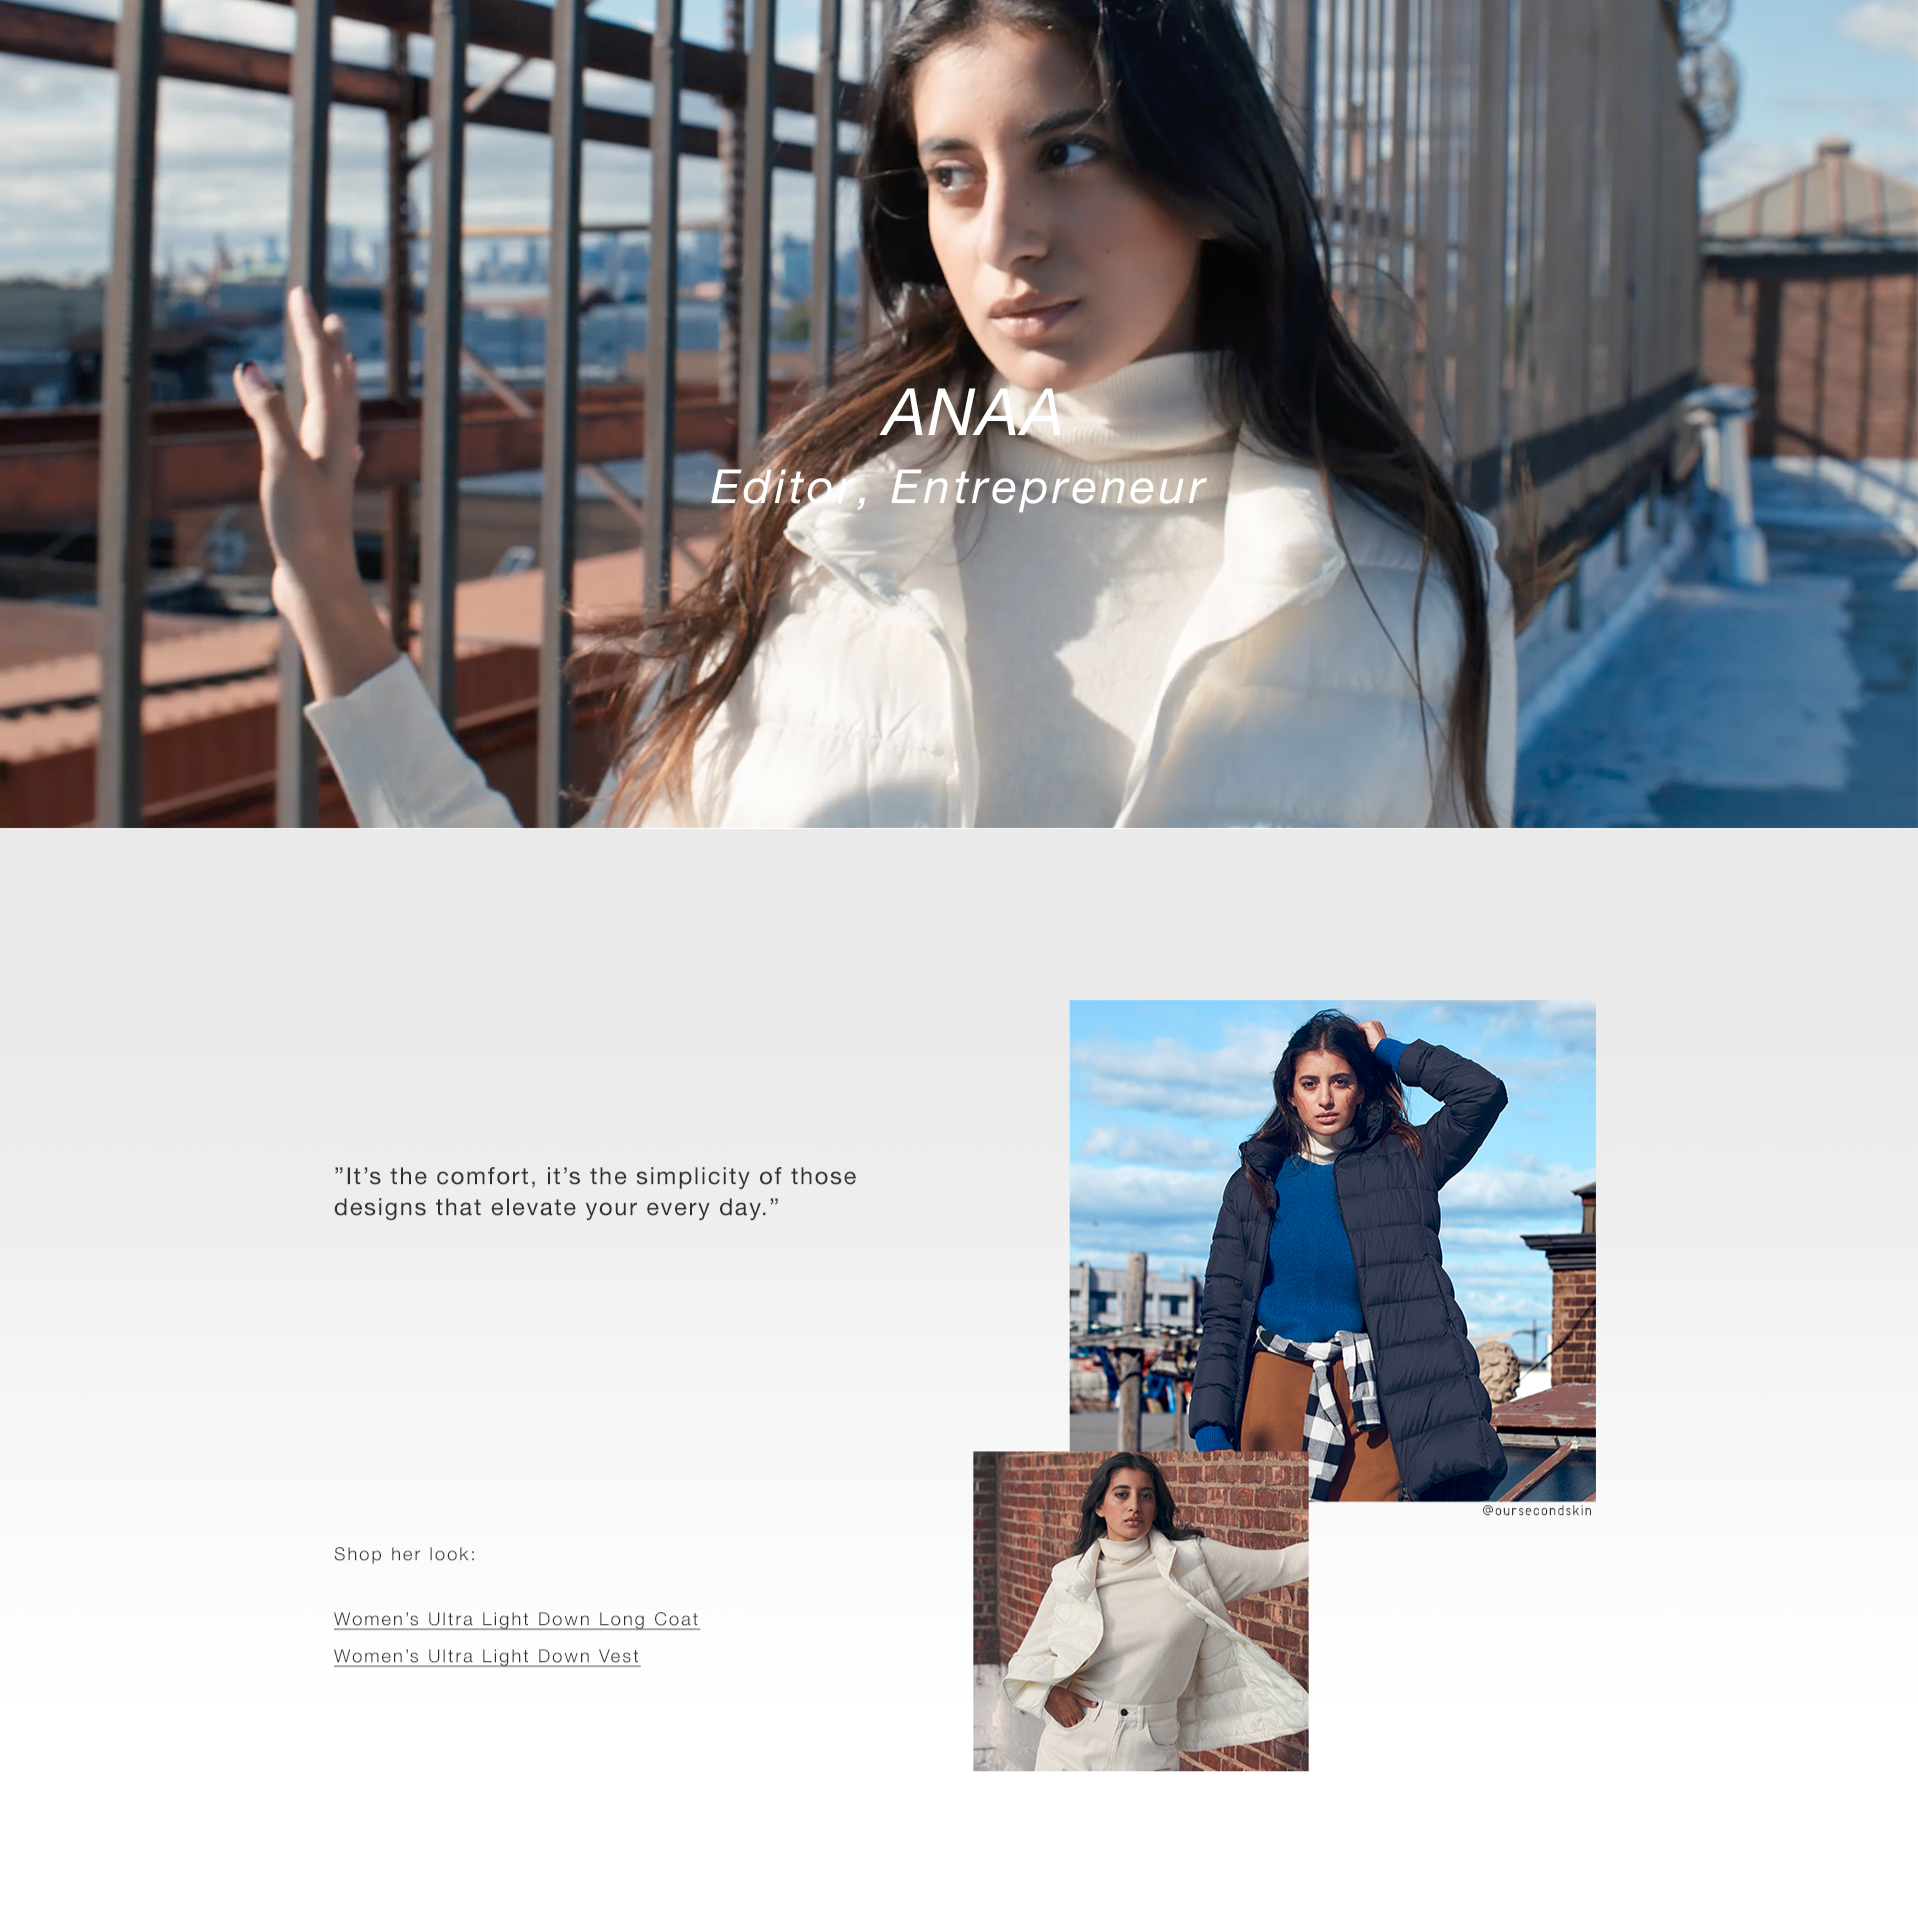
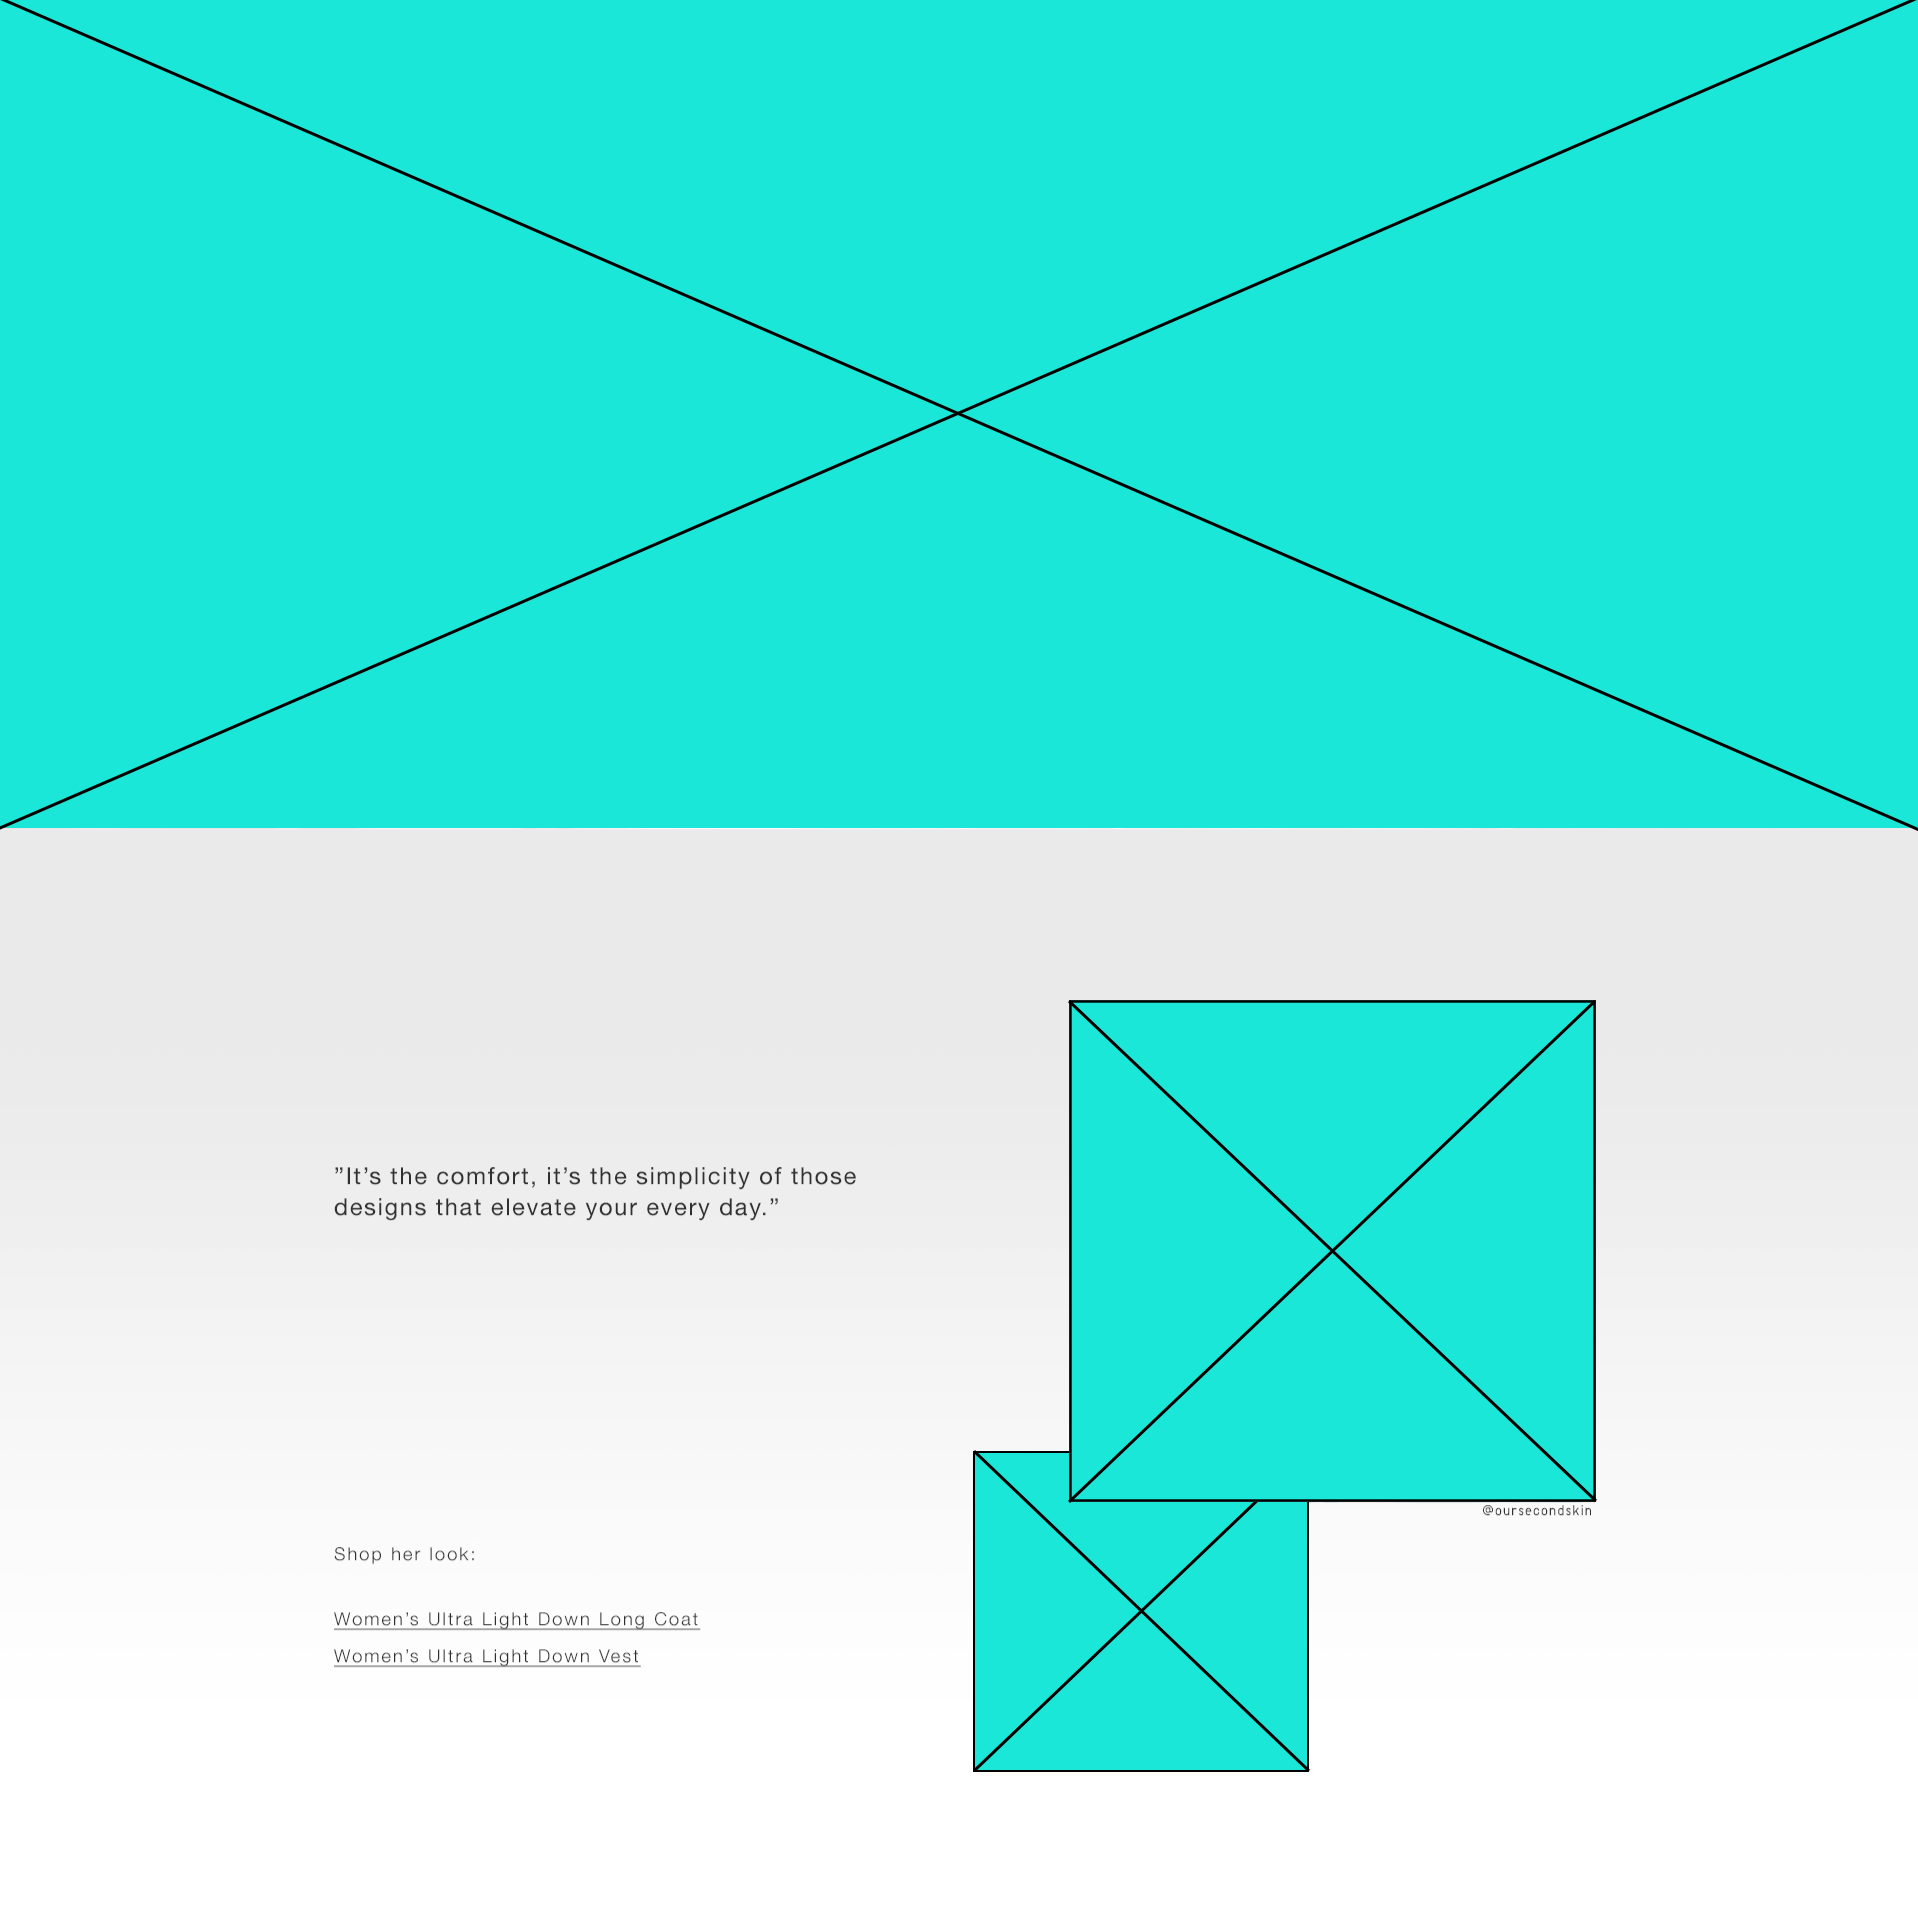
updated main.png + readme tweaks
made the main image more generic and more wireframe looking + structured
the readme a bit

diff --git a/app/templates/README.md b/app/templates/README.md
@@ -2,7 +2,7 @@
 
 
 
-### Description
+# Description
 Describes the project. This is a project featuring a quick brown fox jumping over a lazy dog.
 
 
@@ -18,14 +18,14 @@ Describes the project. This is a project featuring a quick brown fox jumping ove
 
 
 
-# Notes
+# Notes on the Readme Elements Above
 
-### Example Types
+### Examples of Types
 
 - Feature Page  
 - Banner
-  - L3
-  - PDP
+   - L3
+   - PDP
 - Custom Feature  
 - Template  
 - Content Header
